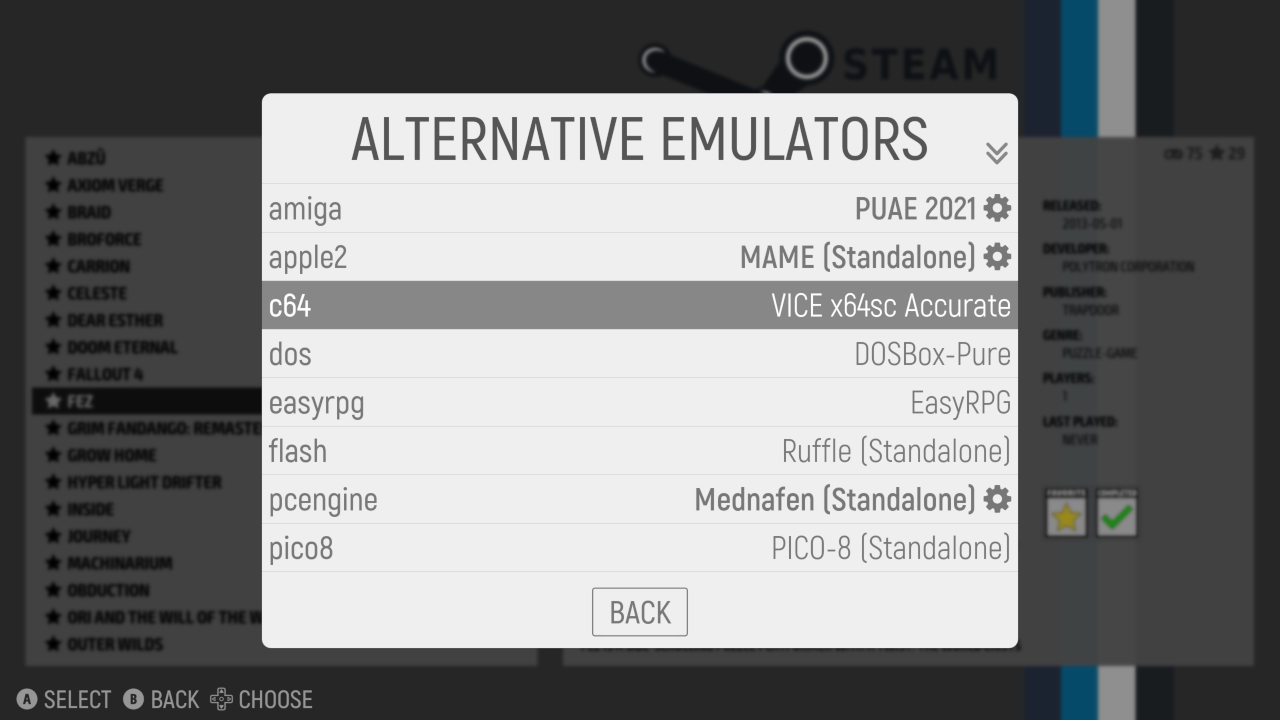
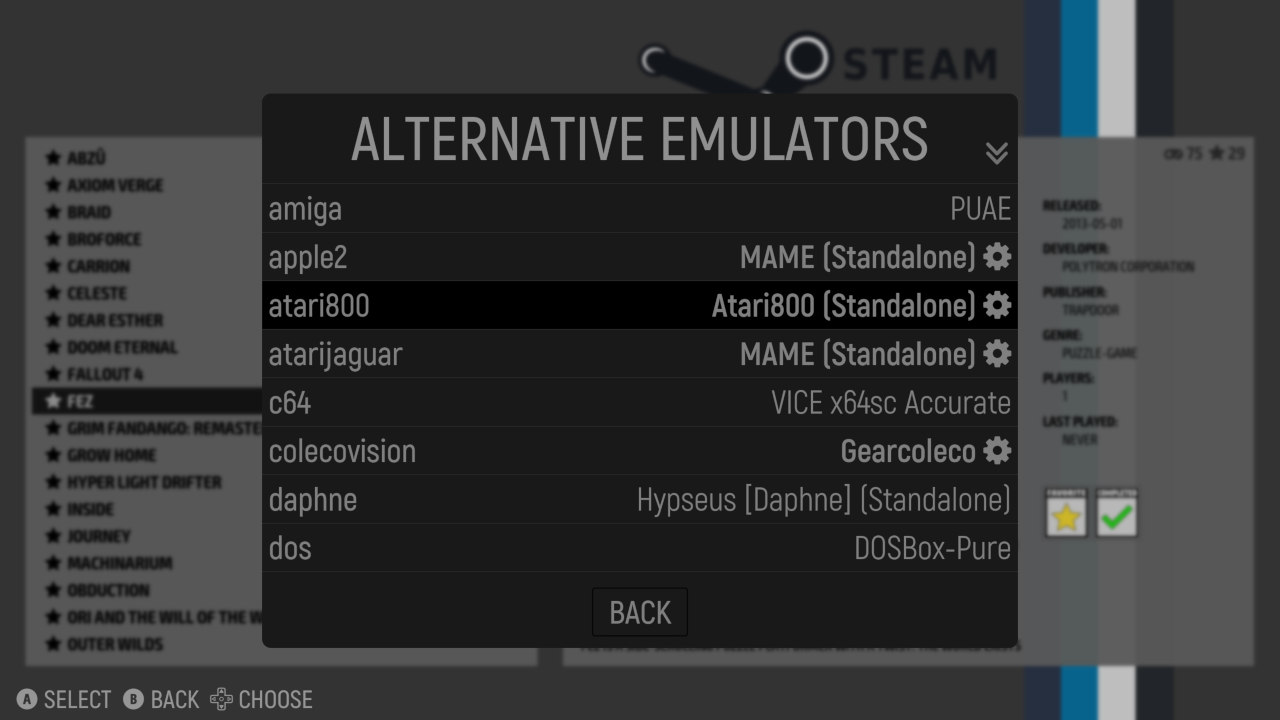
Changed all screenshots to the dark menu color scheme

diff --git a/USERGUIDE.md b/USERGUIDE.md
@@ -2044,7 +2044,10 @@ It's possible to change the game media directory location from within ES-DE, for
 This menu can be accessed from both the system view and gamelist view. It contains the scraper, application settings and various tools such as the input configurator and the miximage generator. Settings are saved when navigating back from any menu screen, assuming at least one setting was changed. Using the keyboard quit shortcut (Alt + F4 / Command + Q by default) will also save any pending changes.
 
 ![alt text](images/es-de_main_menu.png "ES-DE Main Menu")
-_The main menu with its multiple submenus._
+_The main menu with its multiple submenus using the default dark menu color scheme._
+
+![alt text](images/es-de_main_menu_light.png "ES-DE Main Menu, Light")
+_The main menu using the alternative light menu color scheme._
 
 Following is a breakdown of the main menu entries.
 
@@ -2689,7 +2692,7 @@ This menu is opened from the gamelist view, and can't be accessed from the syste
 
 You open the menu using the **Back** button, and by pressing **B** or selecting the **Apply** button any settings such as letter jumping using the quick selector or sorting changes are applied. If you instead press the Back button again or select the **Cancel** button, the menu is closed without applying any changes.
 
-![alt text](images/es-de_game_options_menu.png "ES-DE Gamelist Options Menu")
+![alt text](images/es-de_gamelist_options_menu.png "ES-DE Gamelist Options Menu")
 _The gamelist options menu as laid out when opening it from within a custom collection, which adds the menu entry to add or remove games from the collection._
 
 Here's a summary of the menu entries:

diff --git a/USERGUIDE-DEV.md b/USERGUIDE-DEV.md
@@ -2745,7 +2745,7 @@ This menu is opened from the gamelist view, and can't be accessed from the syste
 
 You open the menu using the **Back** button, and by pressing **B** or selecting the **Apply** button any settings such as letter jumping using the quick selector or sorting changes are applied. If you instead press the Back button again or select the **Cancel** button, the menu is closed without applying any changes.
 
-![alt text](images/es-de_game_options_menu.png "ES-DE Gamelist Options Menu")
+![alt text](images/es-de_gamelist_options_menu.png "ES-DE Gamelist Options Menu")
 _The gamelist options menu as laid out when opening it from within a custom collection, which adds the menu entry to add or remove games from the collection._
 
 Here's a summary of the menu entries:
